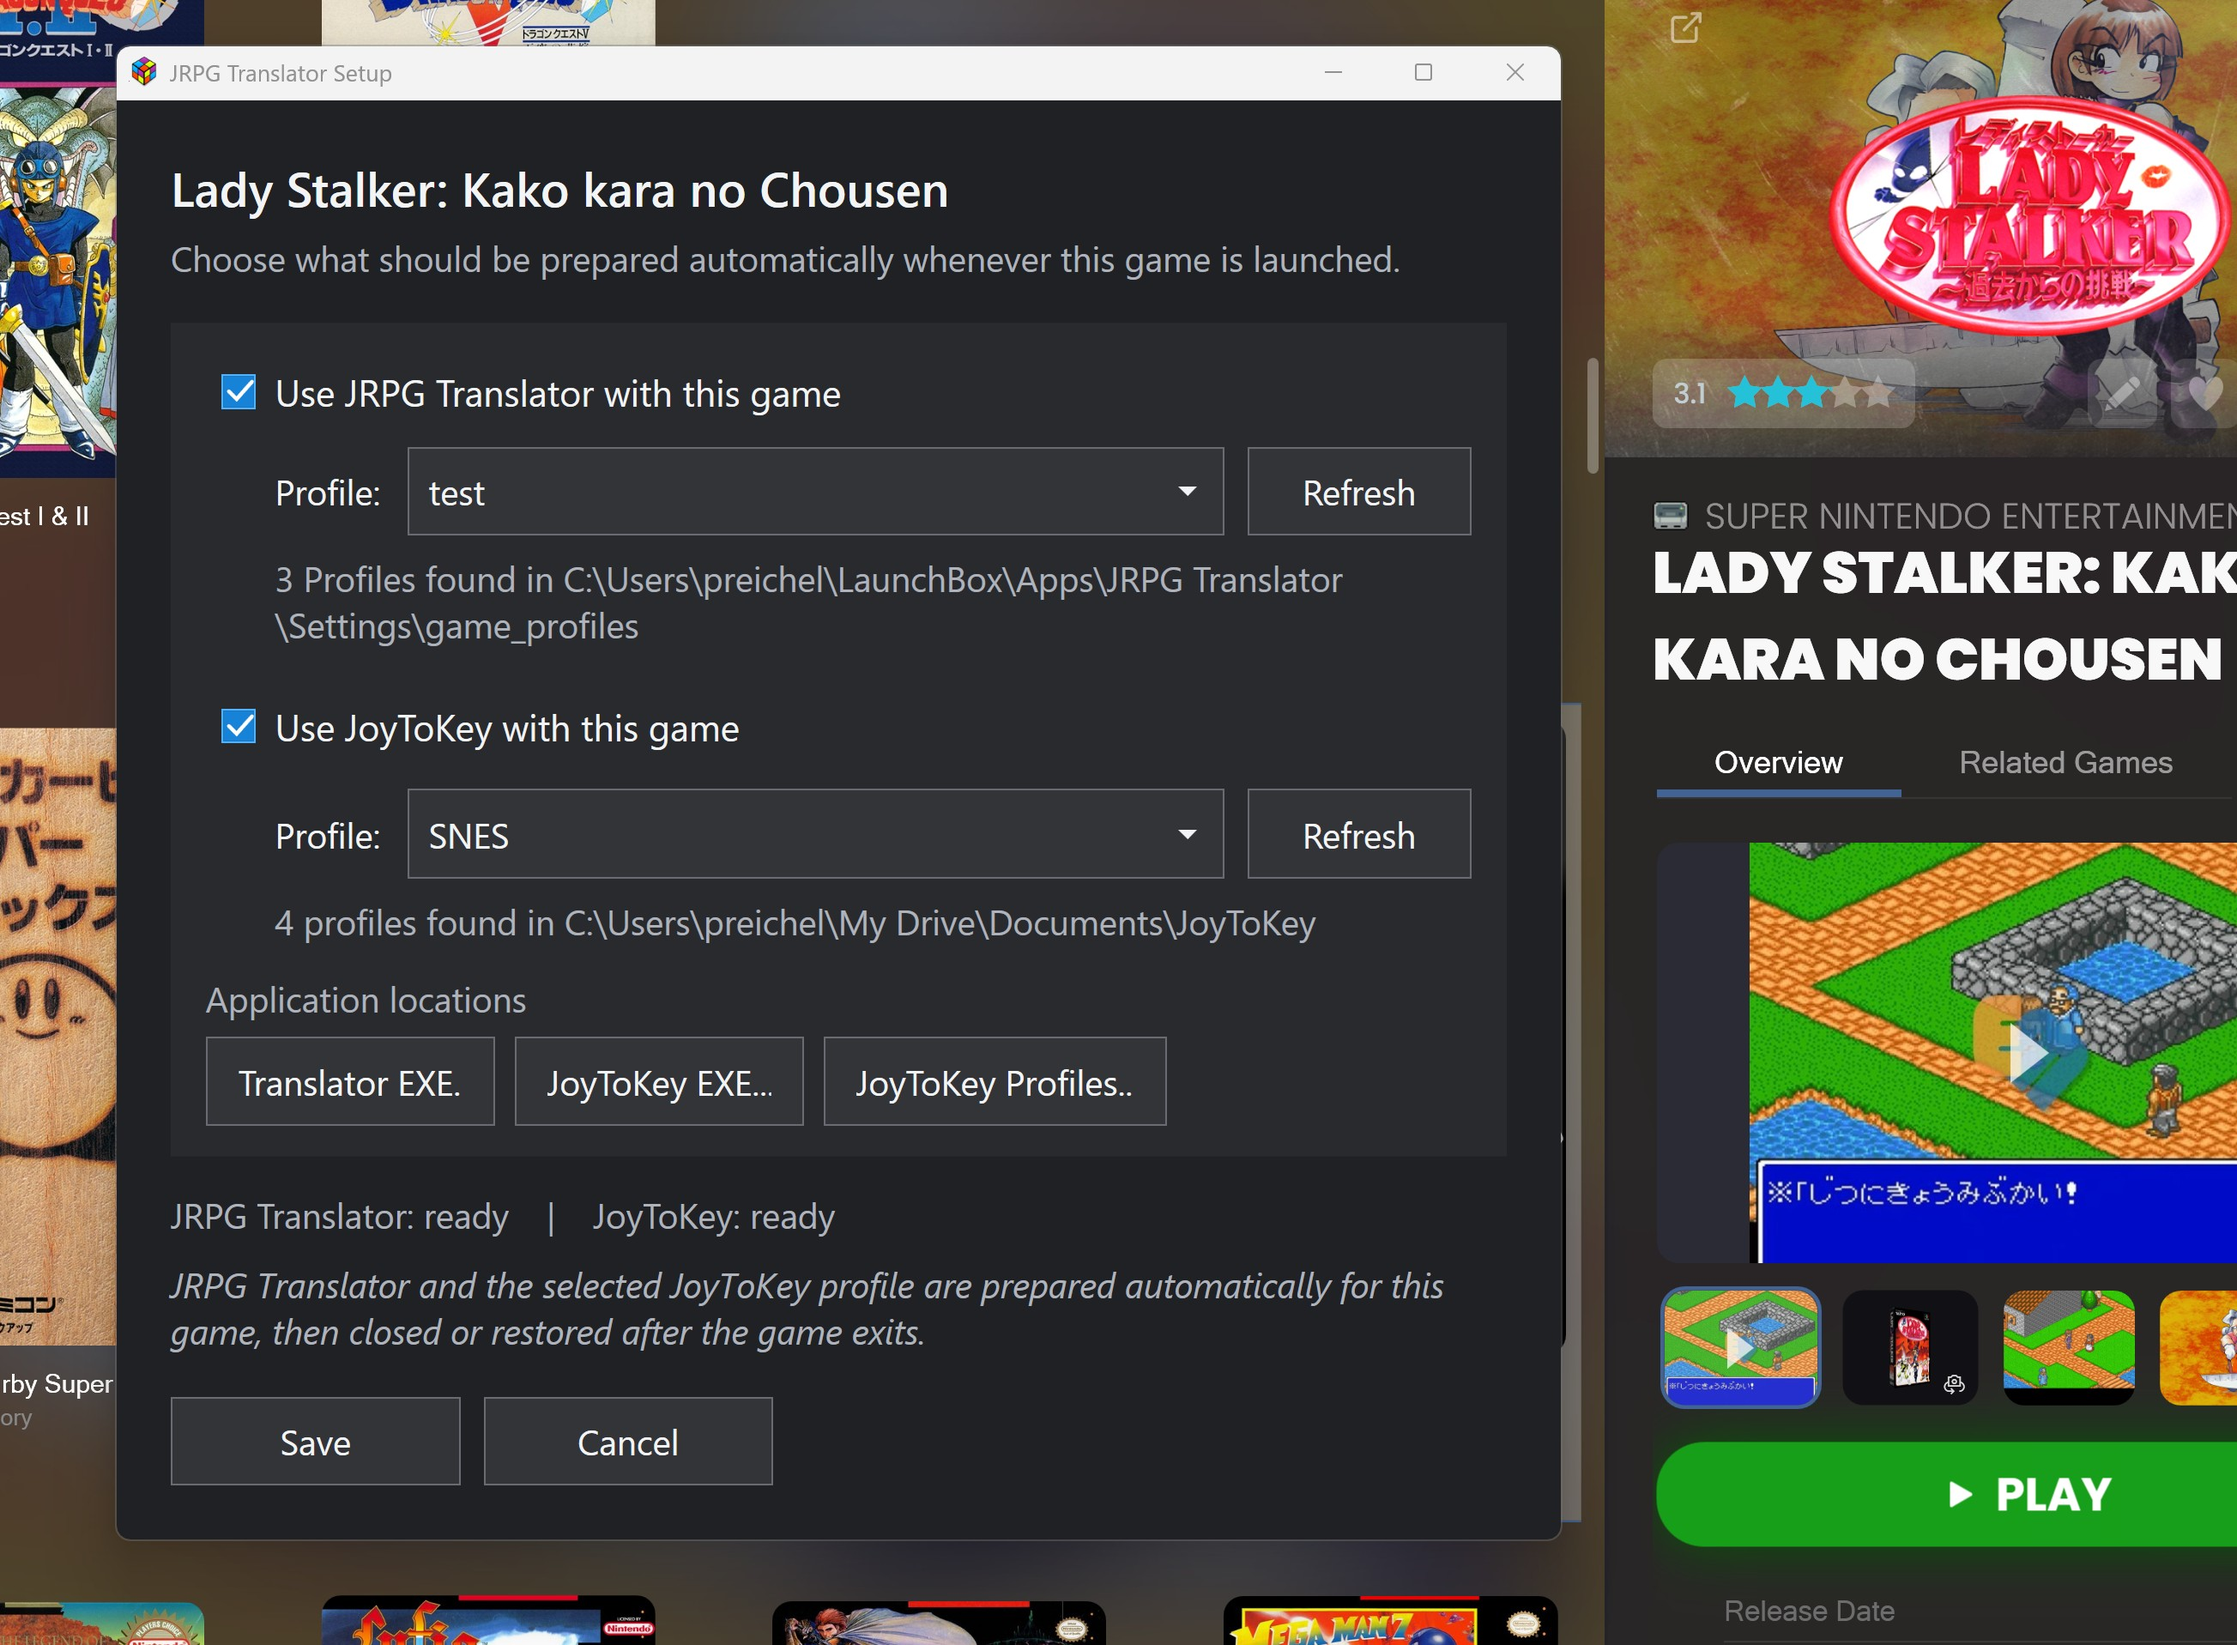
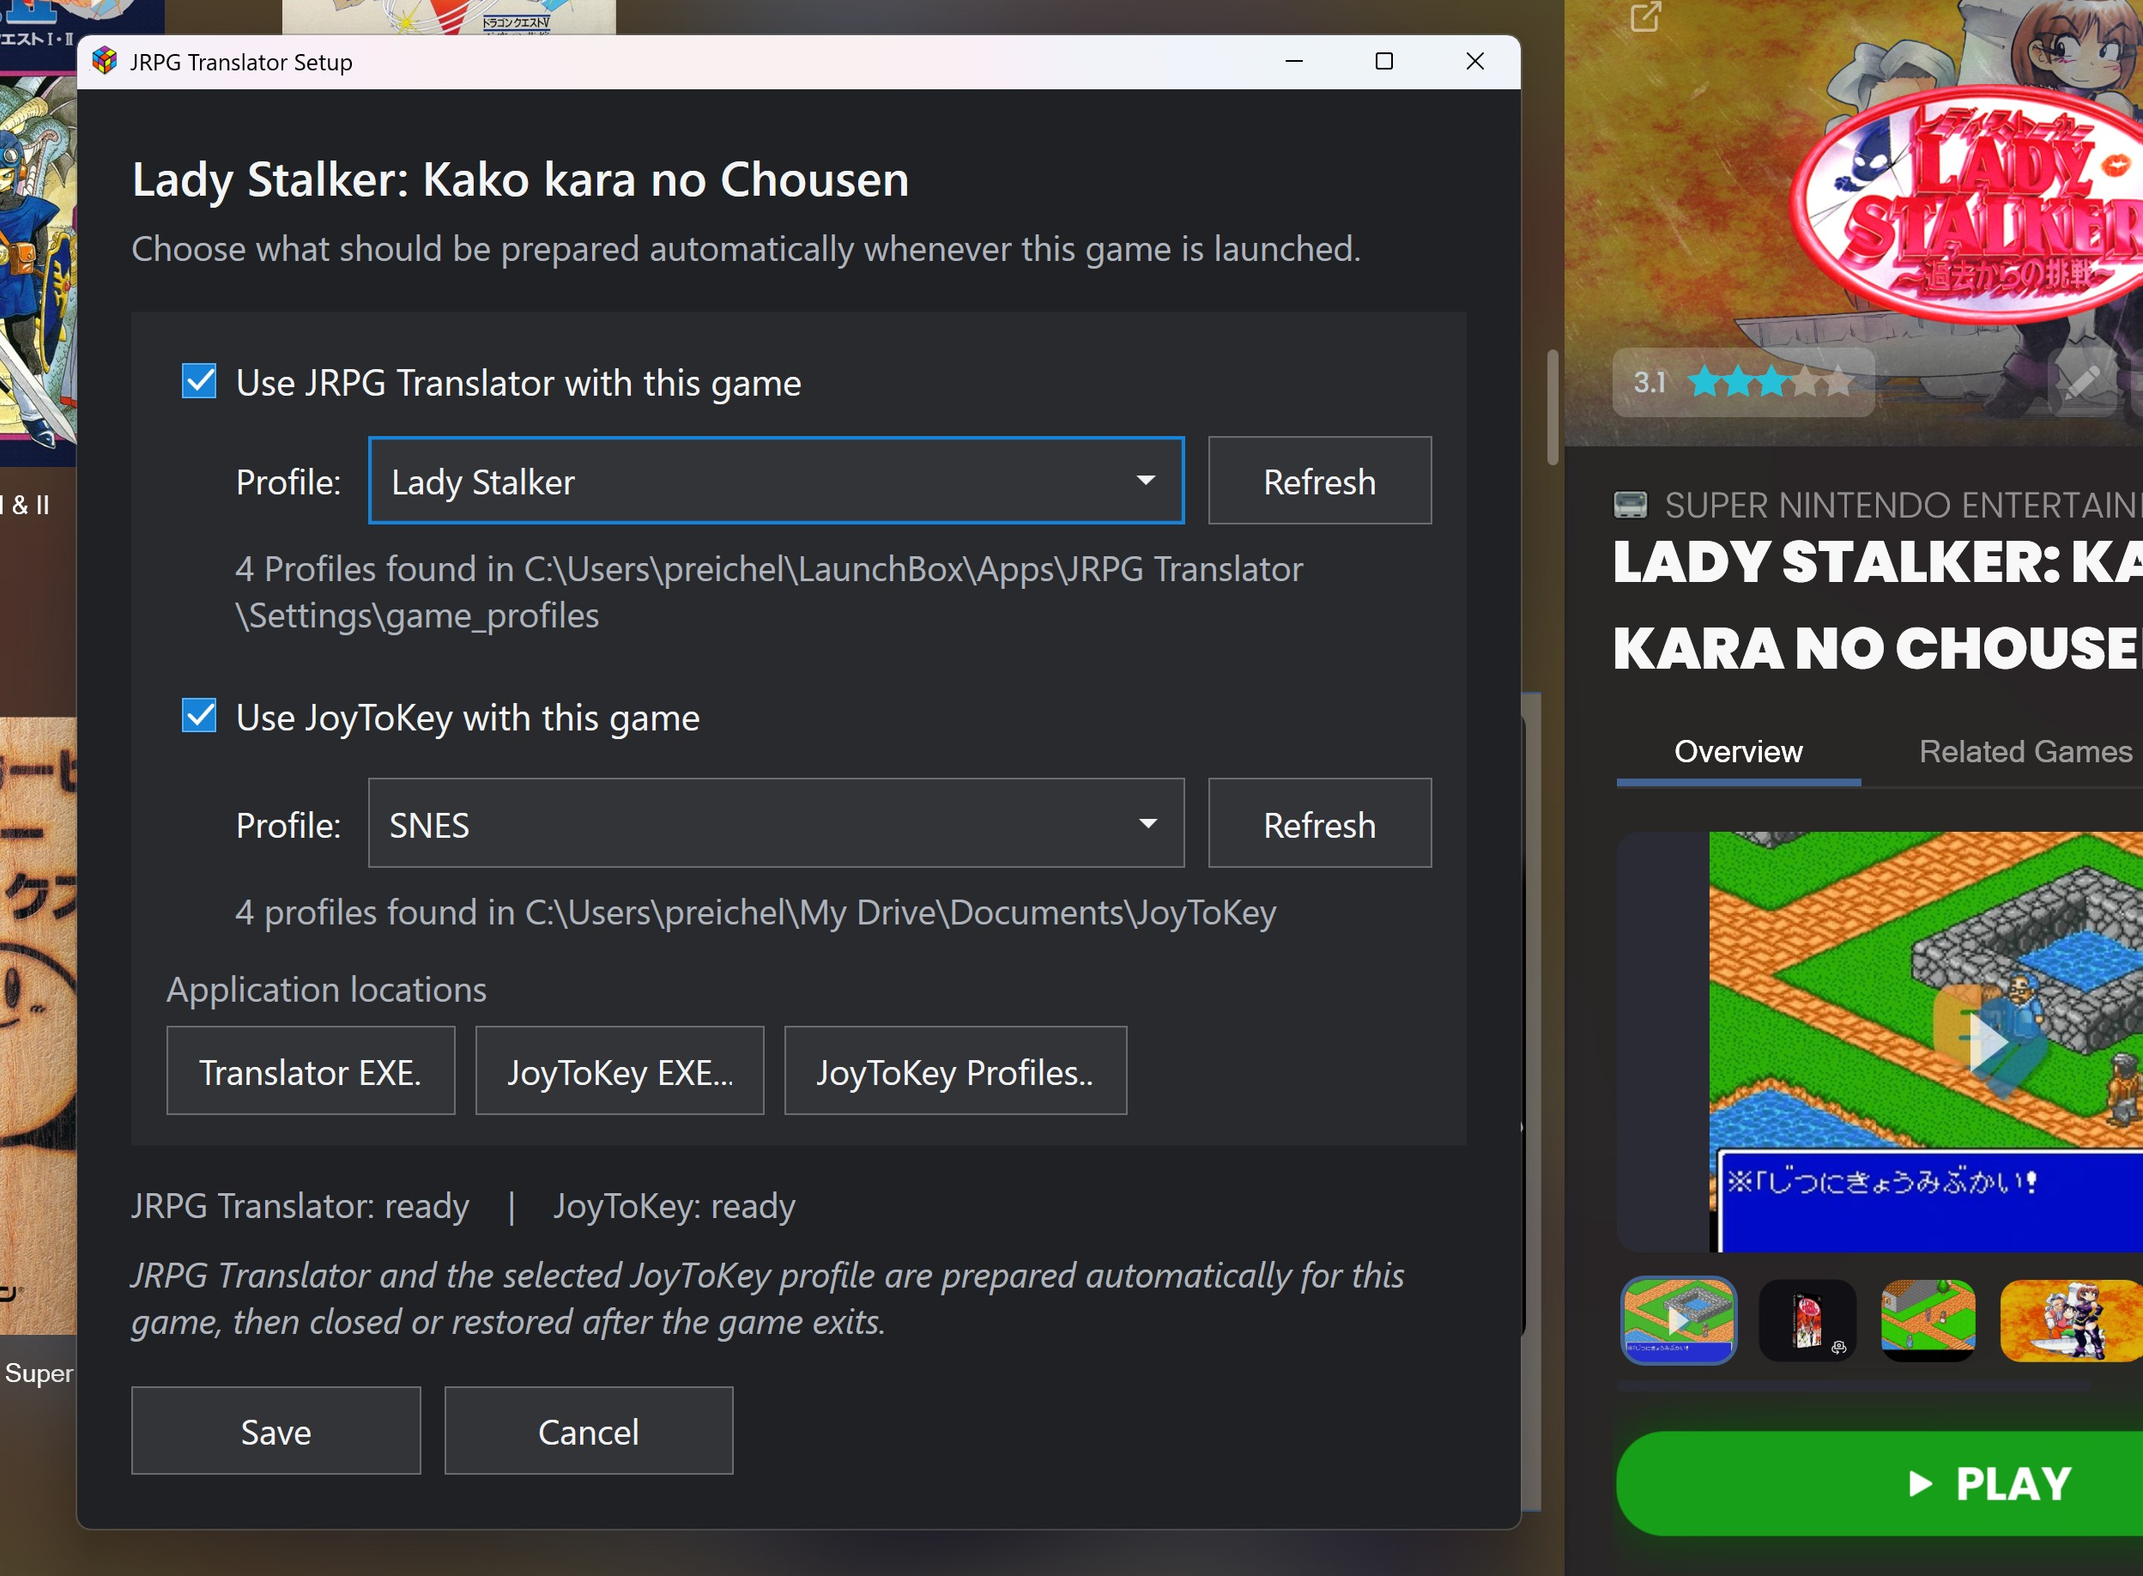
Refresh README for v0.9.2

diff --git a/README.md b/README.md
@@ -64,7 +64,7 @@ Profile automatically for each game.
     </td>
     <td>
       <a href="docs/media/launchbox-integration.jpg">
-        <img src="docs/media/launchbox-integration.jpg" alt="JRPG Translator Setup entry in LaunchBox and Big Box">
+        <img src="docs/media/launchbox-integration.jpg" alt="Per-game JRPG Translator and JoyToKey setup window in LaunchBox">
       </a>
     </td>
   </tr>
@@ -81,15 +81,19 @@ Profile automatically for each game.
 - Independent Translator and Explainer overlays with configurable colors,
   fonts, borders, transparency, position, and size.
 - Translation and explanation prompts editable from the control panel.
-- Unified Profiles that store prompts, post-processing, terminology overrides,
-  capture target, and both overlays' appearance, position, and size.
+- Unified Profiles that store prompt selections, capture target, terminology
+  settings, D-pad navigation, startup choices, and both overlays' appearance,
+  position, and size.
 - Independent model lists for screenshot translation, live audio, and
   explanations, with API-backed model discovery and manual model-ID entry.
 - Selectable output language for live audio translation.
 - JP-to-target-language and target-language-to-target-language glossary profiles
-  for consistent names, terminology, spelling, and preferred wording.
+  for consistent names, terminology, spelling, and preferred wording, with an
+  immediate per-Profile on/off switch.
 - Configurable keyboard hotkeys, optional direct controller action bindings,
-  spatial controller navigation, and optional dark mode.
+  optional D-pad navigation, and spatial controller focus movement.
+- A resizable control panel with compact scrolling, dark mode, whole-window
+  opacity, and magnetic preferred width and height points.
 - Non-activating overlays that can remain visible without taking focus from the
   game or pausing an emulator.
 - Optional per-game LaunchBox / Big Box integration with JRPG Translator
@@ -113,12 +117,14 @@ needed when using the release package.
 3. Add your API keys in the **API Keys** tab, or set `OPENAI_API_KEY` and/or
    `GEMINI_API_KEY` as Windows user environment variables.
 4. Open the Translator overlay.
-5. Choose a capture region or game window from
-   **Screenshot Translation > Capture**.
+5. In **Screenshot Translation**, choose **Capture...**, then select a region or
+   game window.
 6. Select the provider, model, prompt, and hotkeys you want to use.
 
-The control panel saves settings automatically where appropriate. The **Save**
-button becomes available when a manual save is needed.
+Most control-panel settings save immediately. Manually edited application paths
+and **Debug mode** are saved with **Save paths** in the optional **Paths** tab.
+API keys stored in `Settings/.env` use **Save Keys** in **API Keys**; prompt and
+terminology editors have their own Save controls.
 
 ## Translation Workflows
 
@@ -137,11 +143,14 @@ format useful for playing or studying.
 In the **Audio Translation** tab:
 
 1. Select the Windows playback device.
-2. Choose OpenAI or Gemini and a compatible live translation model.
-3. Select the output language.
-4. Choose **Audio Translation Off** to start translation. The button changes to
-   **Audio Translation On** while the live session is active; choose it again to
-   stop.
+2. Optionally choose **Test Audio** while sound is playing to verify that the
+   selected device is receiving audible output. This test is local and does not
+   make an API request.
+3. Choose OpenAI or Gemini and a compatible live translation model.
+4. Select the output language.
+5. Choose **Audio Translation Off** in the footer to start translation. The
+   button changes to **Audio Translation On** while the live session is active;
+   choose it again to stop.
 
 Audio is streamed directly to the selected live translation model. Translated
 lines appear at the bottom of the Translator overlay while older lines move
@@ -159,13 +168,28 @@ tuned for a learner's level and preferred amount of detail.
 When **Save explanations to textfiles** is enabled, generated explanations are
 also stored in `Settings/Explanations` for use as study material.
 
+### Terminology Overrides
+
+The **Terminology Overrides** tab provides separate JP-to-target-language and
+target-language-to-target-language glossary Profiles. **Use terminology
+overrides** enables or disables both stages immediately for screenshot
+translation, live audio translation, and explanations.
+
+When the option is off, JP-to-target-language entries are not sent to a model
+and local target-language replacements are skipped. The enabled state and both
+selected glossary Profiles are stored in unified Profiles, including Profiles
+applied through LaunchBox / Big Box.
+
 ## Controller Use
 
 The control panel supports an XInput-compatible controller without a keyboard
 mapper:
 
 - The D-pad moves spatially between visible controls and tabs.
-- A / Cross confirms and B / Circle cancels.
+- A / Cross confirms; B / Circle cancels or closes dialogs and text editors.
+- **Use D-pad for control panel navigation** can be turned off when JoyToKey,
+  Steam Input, DS4Windows, or another mapper already sends arrow keys. A / Cross
+  and B / Circle remain available.
 - The **Controls** tab can optionally bind actions such as Screenshot +
   Translate, Explain, and overlay visibility directly to controller buttons.
 - Keyboard hotkeys remain available and can still be mapped through JoyToKey or
@@ -205,6 +229,10 @@ details menu. Per game, it can:
 - start JoyToKey or switch an existing instance to a selected profile; and
 - restore the previous JoyToKey profile when the game exits.
 
+If JRPG Translator is already running, the plugin applies the selected Profile
+without restarting it and leaves the pre-existing instance open when the game
+exits.
+
 The plugin setup window can browse for the Translator executable, JoyToKey
 executable, and JoyToKey profile folder. Big Box uses a controller-native path
 browser, while LaunchBox retains the standard Windows file and folder pickers.
@@ -236,6 +264,7 @@ Settings/
 |-- control.ini
 |-- .env                         # optional local API-key storage
 |-- Screenshots/
+|-- Explanations/                # optional saved study material
 |-- prompts/                     # screenshot translation prompts
 |-- prompts_explain/             # explanation prompts
 |-- glossaries/
@@ -243,10 +272,13 @@ Settings/
 ```
 
 A unified Profile stores the selected screenshot and explanation prompts,
-translation post-processing, terminology profiles, capture region or window,
-and both overlays' size, position, colors, transparency, font, size, and
-weight. Translator and Explainer settings remain independent inside each
-Profile.
+capture region or window, guessed-subject highlighting, speaker-name coloring,
+terminology selections and enabled state, D-pad navigation, overlay startup and
+topmost choices, and both overlays' position, size, colors, transparency, font,
+font size, and weight. Translator and Explainer appearance settings remain
+independent inside each Profile. Screenshot output handling is selected
+automatically from the prompt name and is no longer a normal user-facing
+selector.
 
 The source repository and release include three prompt families for every
 supported output language:
@@ -274,12 +306,13 @@ are ignored by Git.
 | --- | --- |
 | `JRPG Translator.ahk` | Main control panel and workflow orchestration |
 | `bin/overlay.ahk` | Translator and Explainer overlay windows |
-| `bin/overlay.exe` | Compiled Translator and Explainer overlay used by release builds |
+| `bin/overlay.exe` | Compiled overlay included in release packages, not the source repository |
 | `scripts/screenshot_translator.py` | Screenshot vision translation and output formatting |
 | `scripts/live_audio_translator.py` | Direct streaming audio translation |
 | `scripts/explainer.py` | Japanese-learning explanations |
 | `scripts/model_catalog.py` | Provider model discovery, filtering, sorting, and caching |
 | `integrations/launchbox/` | Optional per-game LaunchBox / Big Box and JoyToKey integration |
+| `docs/media/` | Curated screenshots and animation displayed in this README |
 
 Runtime messages and generated overlay text are exchanged through
 `%TEMP%\JRPG_Overlay`.
@@ -296,14 +329,16 @@ py -3.12 -m pip install -r requirements.txt
 ```
 
 Before sharing a build, verify that it does not contain `Settings/.env`, API
-credentials, personal profiles, screenshots, logs, or other local settings.
+credentials, personal Profiles, `Settings/Screenshots`, saved explanations,
+logs, or other local state. The curated showcase files under `docs/media` are
+intentional repository assets.
 
 ## Troubleshooting
 
 - If a request fails, verify the selected model name and confirm that the API
   key has access to that model.
 - If the wrong playback source is translated, refresh and reselect the device
-  in **Audio Translation**.
+  in **Audio Translation**, then use **Test Audio** while sound is playing.
 - If an overlay is missing, use the Open Translator or Open Explainer button and
   check its saved position on connected displays.
 - If source files do not start, confirm that AutoHotkey v2 is being used rather
